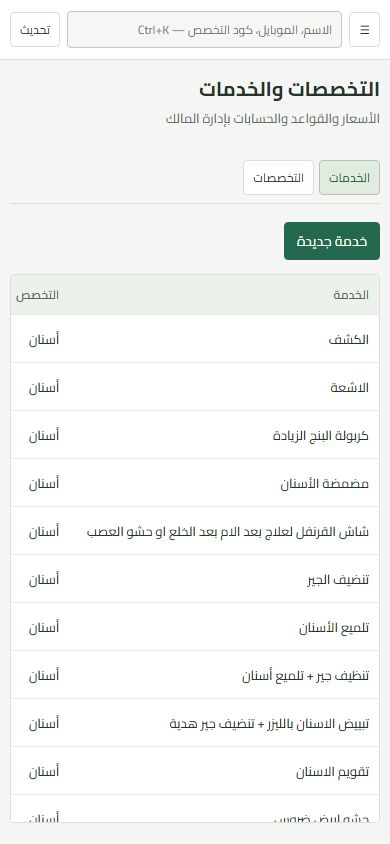
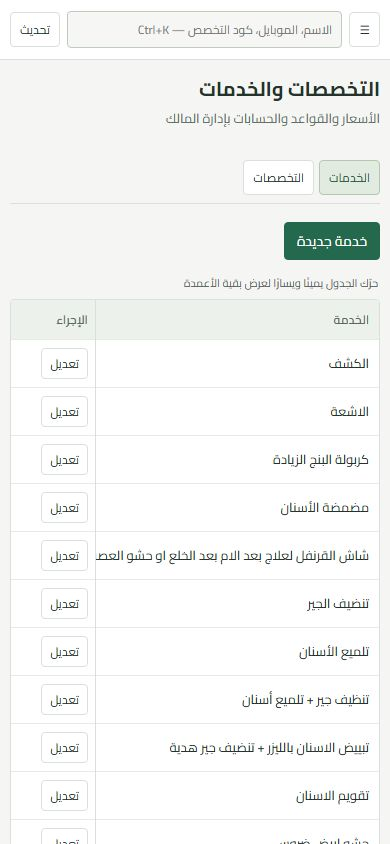
fix: keep mobile table actions and prices visible

diff --git a/src/clinic/ui.tsx b/src/clinic/ui.tsx
@@ -35,8 +35,20 @@ export function Dialog({title,close,children}:{title:string;close:()=>void;child
 }
 export type Column={label:string;render:(row:Row)=>ReactNode;numeric?:boolean};
 export function Table({rows,columns,empty='لا توجد سجلات هنا.'}:{rows:Row[];columns:Column[];empty?:string}) {
+ const wrapper=useRef<HTMLDivElement>(null);
+ const [overflows,setOverflows]=useState(false);
+ useEffect(()=>{
+   const element=wrapper.current;
+   if(!element){setOverflows(false);return;}
+   const measure=()=>setOverflows(element.scrollWidth>element.clientWidth+1);
+   const observer=new ResizeObserver(measure);
+   observer.observe(element);
+   const table=element.querySelector('table');if(table)observer.observe(table);
+   measure();
+   return()=>observer.disconnect();
+ },[rows.length,columns.length]);
  if(!rows.length)return <p className="empty">{empty}</p>;
- return <div className="table-wrap"><table><thead><tr>{columns.map(column=><th key={column.label} className={column.numeric?'numeric':''}>{column.label}</th>)}</tr></thead><tbody>{rows.map((row,index)=><tr key={row.id||index}>{columns.map(column=><td key={column.label} className={column.numeric?'numeric':''}>{column.render(row)}</td>)}</tr>)}</tbody></table></div>;
+ return <>{overflows&&<p className="table-scroll-hint">حرّك الجدول يمينًا ويسارًا لعرض بقية الأعمدة</p>}<div className="table-wrap" ref={wrapper}><table><thead><tr>{columns.map(column=><th key={column.label} className={column.numeric?'numeric':column.label==='الإجراء'?'action-column':''}>{column.label}</th>)}</tr></thead><tbody>{rows.map((row,index)=><tr key={row.id||index}>{columns.map(column=><td key={column.label} className={column.numeric?'numeric':column.label==='الإجراء'?'action-column':''}>{column.render(row)}</td>)}</tr>)}</tbody></table></div></>;
 }
 export function Badge({children,tone='neutral'}:{children:ReactNode;tone?:'neutral'|'warning'|'success'}){return <span className={`badge ${tone}`}>{children}</span>;}
 export function Heading({title,detail,children}:{title:string;detail?:string;children?:ReactNode}){return <div className="page-heading"><div><h1>{title}</h1>{detail&&<p>{detail}</p>}</div><div className="actions">{children}</div></div>;}

diff --git a/src/styles/tables.css b/src/styles/tables.css
@@ -1,0 +1,62 @@
+.table-scroll-hint { display: none; }
+
+@media (max-width: 650px) {
+  .table-scroll-hint {
+    display: block;
+    margin: 0 2px 6px;
+    color: #55645a;
+    font-size: 11px;
+  }
+
+  .table-wrap th.action-column,
+  .table-wrap td.action-column {
+    position: sticky;
+    inset-inline-end: 0;
+    width: 116px;
+    min-width: 84px;
+    max-width: 116px;
+    padding-inline: 7px;
+    white-space: normal;
+    box-shadow: 1px 0 0 #d9dfda;
+  }
+
+  .table-wrap th.action-column {
+    z-index: 3;
+    background: #edf1eb;
+  }
+
+  .table-wrap td.action-column {
+    z-index: 2;
+    background: #fff;
+  }
+
+  .table-wrap tr:hover td.action-column { background: #f7f9f4; }
+
+  .table-wrap td.action-column .actions {
+    max-width: 100px;
+    flex-wrap: wrap;
+  }
+
+  .price-editor table {
+    width: 100%;
+    table-layout: fixed;
+  }
+
+  .price-editor th,
+  .price-editor td {
+    white-space: normal;
+    overflow-wrap: anywhere;
+  }
+
+  .price-editor th:first-child,
+  .price-editor td:first-child { width: 62%; }
+
+  .price-editor th:last-child,
+  .price-editor td:last-child { width: 38%; }
+
+  .price-editor input {
+    display: block;
+    width: 100%;
+    min-width: 0;
+  }
+}

diff --git a/src/main.jsx b/src/main.jsx
@@ -2,6 +2,7 @@ import React from "react";
 import ReactDOM from "react-dom/client";
 import "./styles/desk.css";
 import "./styles/login.css";
+import "./styles/tables.css";
 import App from "./App.jsx";
 
 ReactDOM.createRoot(document.getElementById("root")).render(
